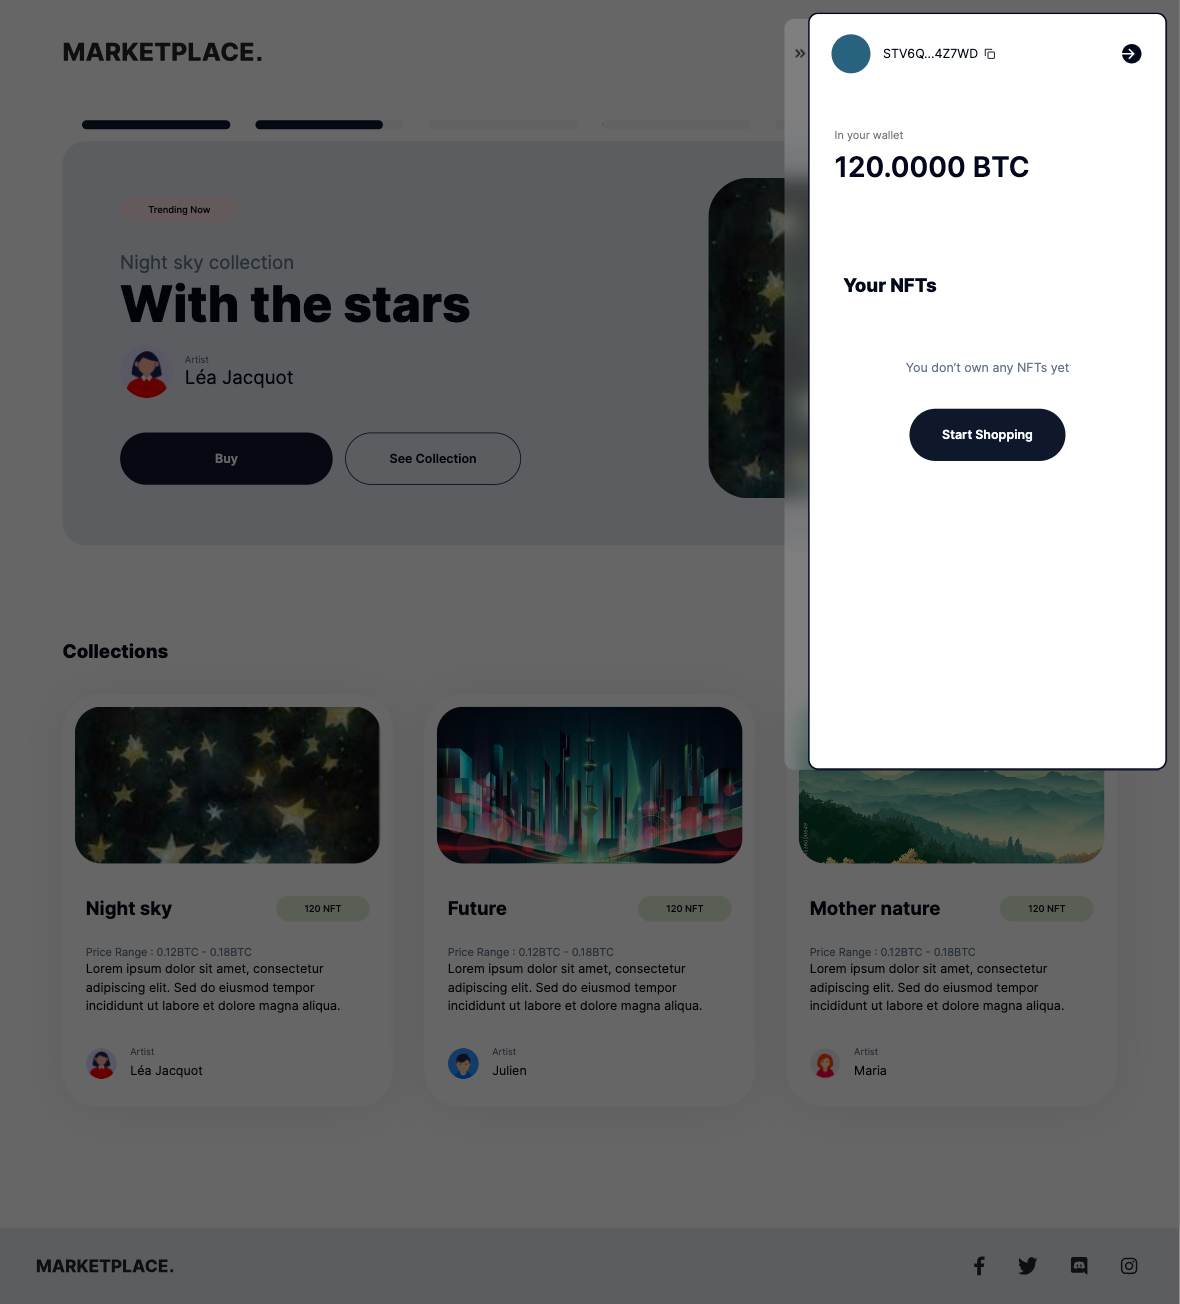
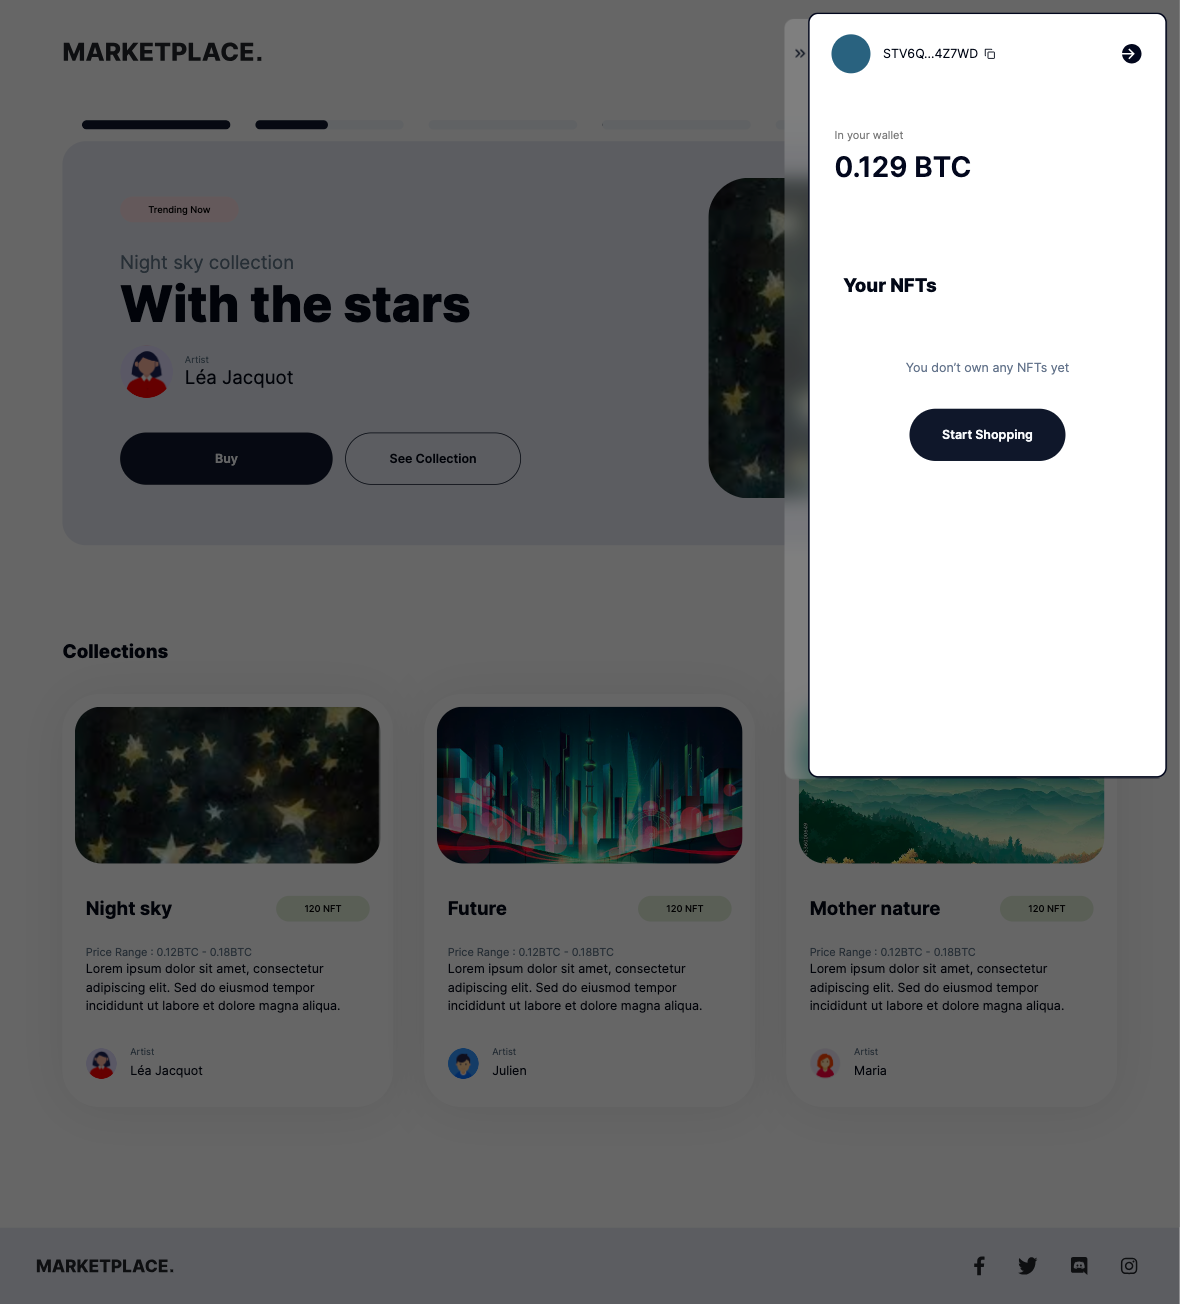
Prepare for submission

diff --git a/README.md b/README.md
@@ -1,53 +1,144 @@
-# Risidio Frontend Developer Assessment - My Submission
+# Risidio Frontend Developer Assessment - My Submission 🚀
 
 ## Overview
 
-This project implements the design provided in the Risidio technical assessment using Next.js 14, Tailwind CSS for styling, and shadcn/ui as the component library. It features a cookie-based session for authentication and uses SQLite database managed by Drizzle ORM, hosted on TursoDb. Initially aimed for deployment on Netlify, the project is now hosted on Vercel due to integration issues with TursoDb.
+This project is a frontend implementation of a site similar to an NFT marketplace as part of the Risidio technical assessment. It follows the provided Figma file very closely, using Next.js 14 with server actions, Tailwind CSS for styling, and shadcn/ui to build UI components. It includes advanced features like cookie-based session authentication and connects an SQLite database with Drizzle ORM, hosted on TursoDb.
 
-## Technologies Used
+## Technologies Used 🛠
 
-- **Next.js 14**: Utilized for its SSR capabilities and efficient routing.
-- **Tailwind CSS & shadcn/ui**: For styling and UI components, ensuring a consistent and responsive design.
-- **SQLite & Drizzle ORM**: For database management, leveraging SQLite for storage and Drizzle ORM for database interactions.
+- **Next.js 14**: Server actions, SSR capabilities and efficient routing.
+- **Tailwind CSS**: For styling.
+- **Radix UI && Shadcn/ui**: A headless component library and collection of re-usable components.
+- **Jotai**: State management
+- **SQLite & Drizzle ORM**: SQLite for database and Drizzle ORM for database interactions.
 - **TursoDb**: Hosting the SQLite database in the cloud.
-- **Vercel**: Deployment platform, chosen for its compatibility with the project requirements.
+- **Vercel**: Deployment platform.
 
-## Installation
+## Installation 📦
 
 1. **Clone the repository**:
-   ```bash
-   git clone <repository-url>
-   ```
+
+```bash
+git clone <repository-url>
+```
+
 2. **Install dependencies**:
-   ```bash
-   npm install
-   ```
-3. **Initialize the database**:
-   ```bash
-   npm run db:init:local
-   ```
+
+```bash
+npm install
+```
+
+3. **Configure your env file**:
+
+```env
+TURSO_DB_URL=
+TURSO_AUTH_TOKEN=
+```
+
 4. **Run the development server**:
-   ```bash
-   npm run dev
-   ```
+
+```bash
+npm run db:init:dev && run dev
+```
+
 5. **Build and start the production server**:
-   ```bash
-   npm run build && npm start
-   ```
 
-## Key Features
+```bash
+npm run build:init && npm start
+```
 
-- **Cookie-based Authentication**: Ensures users are authenticated through sessions.
-- **Server Actions**: Server-side logic to interact with the SQLite database.
-- **Responsive Design**: Ensures the application is usable on a variety of devices.
-- **Pixel Perfect Implementation**: Follows the Figma design closely to ensure fidelity.
+## Features 🌟
 
-## Challenges & Learning Points
+### Responsive Design 📐
 
-- **ORM Integration**: Integrating Drizzle ORM with SQLite and managing its deployment on TursoDb presented a steep learning curve.
-- **Deployment Issues**: Challenges with Netlify led to a switch to Vercel, showcasing adaptability in deployment strategies.
-- **Code Refinement**: Due to time constraints, some redundant code and CSS variables were not optimized as intended.
+- Adjusts smoothly across different devices ensuring a seamless user experience no matter the screen size. From tablets to laptops to phones—every view is covered!
 
-## Conclusion
+### Pixel Perfect Implementation 🎨
 
-This project was an invaluable opportunity to deepen my expertise in modern web technologies and adapt to various challenges, from back-end management with Drizzle ORM to precise front-end implementation. I look forward to discussing this project further during my interview.
+- In the initial stages of the project, I made adjustments to padding and measurements based on my personal preferences, thinking to enhance the design. However, I realized that adhering to the original specifications Figma file was crucial, as my role was not to alter but to implement.
+- Meticulously implemented the Figma design provided by the design team, ensuring high fidelity in the visual implementation.
+
+### Cookie-based Authentication 🍪
+
+### Dynamic Routes 🔀
+
+- Each collection page is dynamically generated based on its slug. If a slug is not recognized, the application renders an error state
+
+### Rerouting based on search params 🔙
+
+- Enhances user experience by returning users to their previous action page post-login.
+- If you try to buy an nft from collections page while not logged in, after logging in, it takees you back to that same page.
+
+### Toast Notifications 🍞
+
+- Implements toast notifications for user actions. Pretty cool toast animations from Sonner library.
+
+### Jest Testing 🧪
+
+### SQLite Database Integration 💾
+
+- Utilizes an SQLite database to simulate a full-stack application environment.
+
+### Server Actions 🖥
+
+- Employs server actions for direct, secure interactions with the backend without exposing sensitive logic,
+- Similar to API calls but integrated directly within the frontend context for convenience.
+
+### ORM with Drizzle 🌀
+
+- Uses Drizzle ORM to create type-safe objects for database interactions.
+- It also improves Developer experience. ORM 🤝 VSCode Intellisense = 💯x Dev
+
+### Wallet and Cart Interaction 💳
+
+- Simulates e-commerce operations where purchasing an NFT subtracts from the virtual wallet balance directly.
+
+### Subtle Animations and Interactions 🎭
+
+## Assumptions/Personal Preferences 🤔
+
+### Hosting Platform
+
+- Although the project instructions specified hosting on Netlify, I used Vercel due to integration challenges with TursoDb on Netlify. In order to meet the deadline, I opted for vercel while I keep troubleshootingthe issue..
+
+### Image Formats
+
+-- I used SVG exports from the Figma design for most images. However, some images could not be exported in SVG format, leading to inconsistent image formats/styling.
+
+### Design
+
+- Added a black blur screen when the sidebar is active,, preventing interaction with other elements until the sidebar is closed.
+- Corrected a typo from "NTF" to "NFT," assuming it was an oversight in the original design.
+- Implemented toast notifications despite them not being part of the original design.
+- Made entire cards clickable on the home page instead of just the button.
+- Introduced mock wallet images on the connect page deespite being blank on the design.
+- Applied my own judgment for responsive design
+
+### API/Backend
+
+- Decided to use SQLite for mock data
+- Using Nextjs Server componenets & action
+- Created dynamic collection pages
+- Created a schema based on my interpretations
+
+Overall, I had a blast working on this project! This task was more than just a test for me; it was a journey packed with growth and excitement. I really hope to bring this energy and passion to Risidio. Fingers crossed and looking forward to possibly joining! Last but not the least heres a some images for comparison:
+
+<div style="display: flex; padding: 2px; justify-content: space-around;">
+   <img src="./public/home-screenshot.png" width="40%" />
+   <img src="./public/home-figma.png" width="40%" /> 
+</div>
+
+<div style="display: flex; padding: 2px; justify-content: space-around;">
+   <img src="./public/collection-screenshot.png" width="40%" />
+   <img src="./public/collection-figma.png" width="40%" /> 
+</div>
+
+<div style="display: flex; padding: 2px; justify-content: space-around;">
+   <img src="./public/connect-screenshot.png" width="40%" />
+   <img src="./public/connect-figma.png" width="40%" /> 
+</div>
+
+<div style="display: flex; padding: 2px; justify-content: space-around;">
+   <img src="./public/sidebar-screenshot.png" width="40%" />
+   <img src="./public/sidebar-figma.png" width="40%" /> 
+</div>
